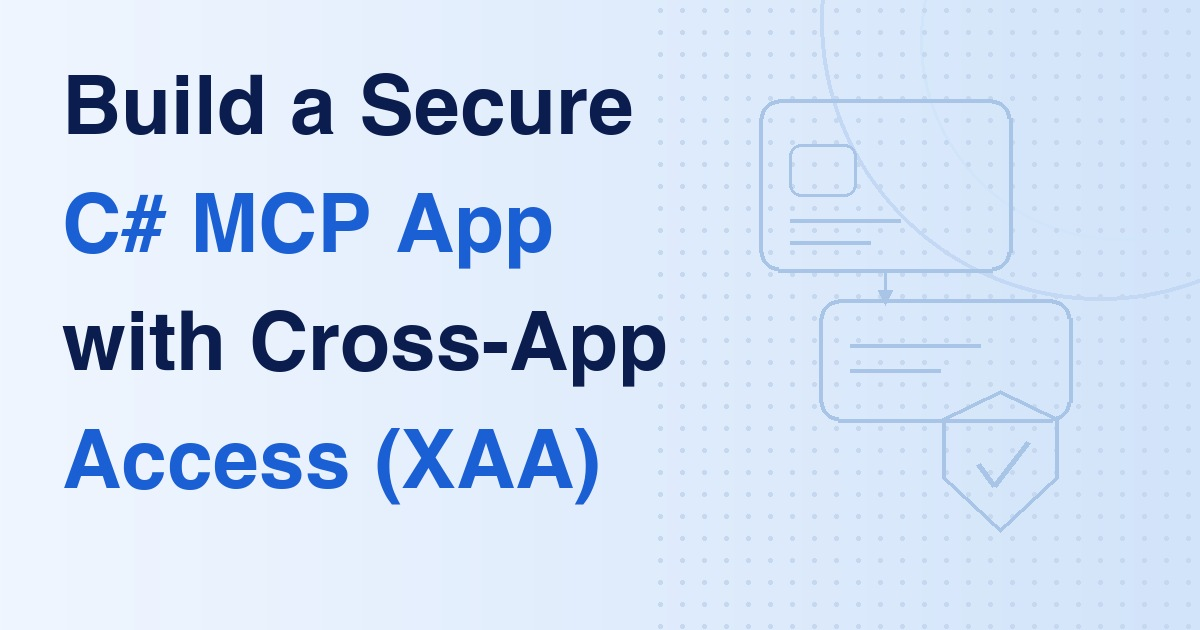
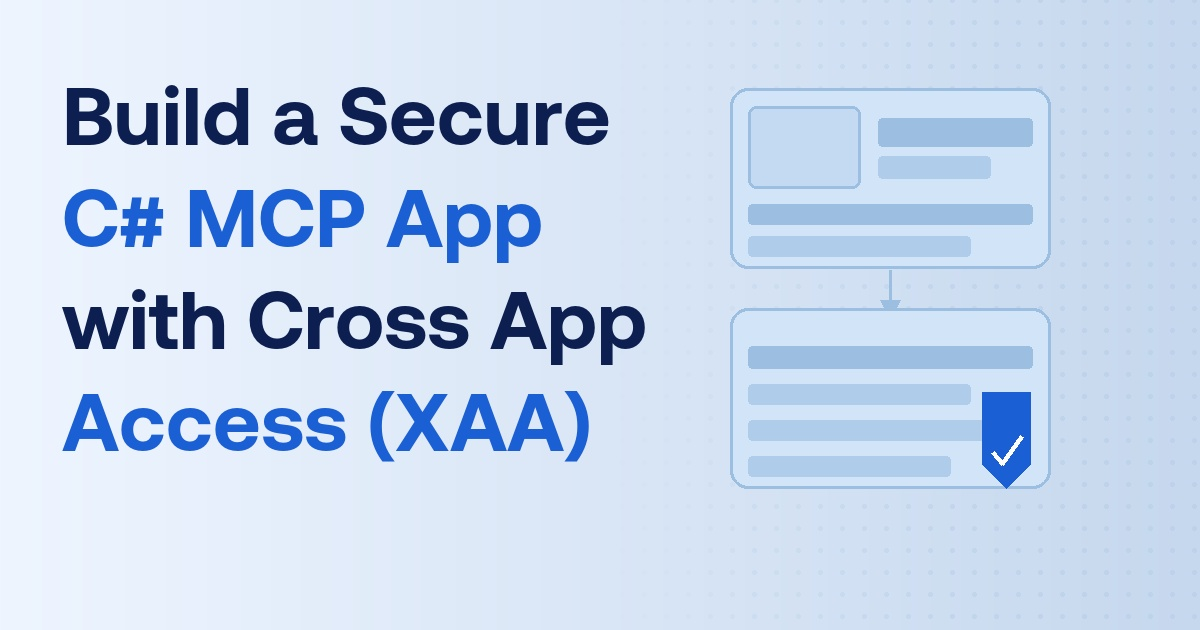
Adding fixes from PR review suggestions

diff --git a/_source/_posts/2026-07-16-csharp-mcp-cross-app-access.md b/_source/_posts/2026-07-16-csharp-mcp-cross-app-access.md
@@ -24,6 +24,10 @@ Cross app access (XAA) solves exactly that. The user authenticates once. The Ide
 
 In this post, we'll explore how Cross App Access (XAA) closes the trust gap, test the flow using xaa.dev, and implement a secure MCP client in just a few lines of C# using our dedicated SDK.
 
+**Table of Contents**{: .hide }
+* Table of Contents
+{% include toc.md %}
+
 ## What is Cross App Access (XAA)?
 
 Before we start implementing and building the application, it is important to understand the mechanics of Cross App Access (XAA). At its core, XAA is an open standard that securely enables AI agents to act on behalf of a user and communicate with downstream applications without requiring constant, manual user consent.